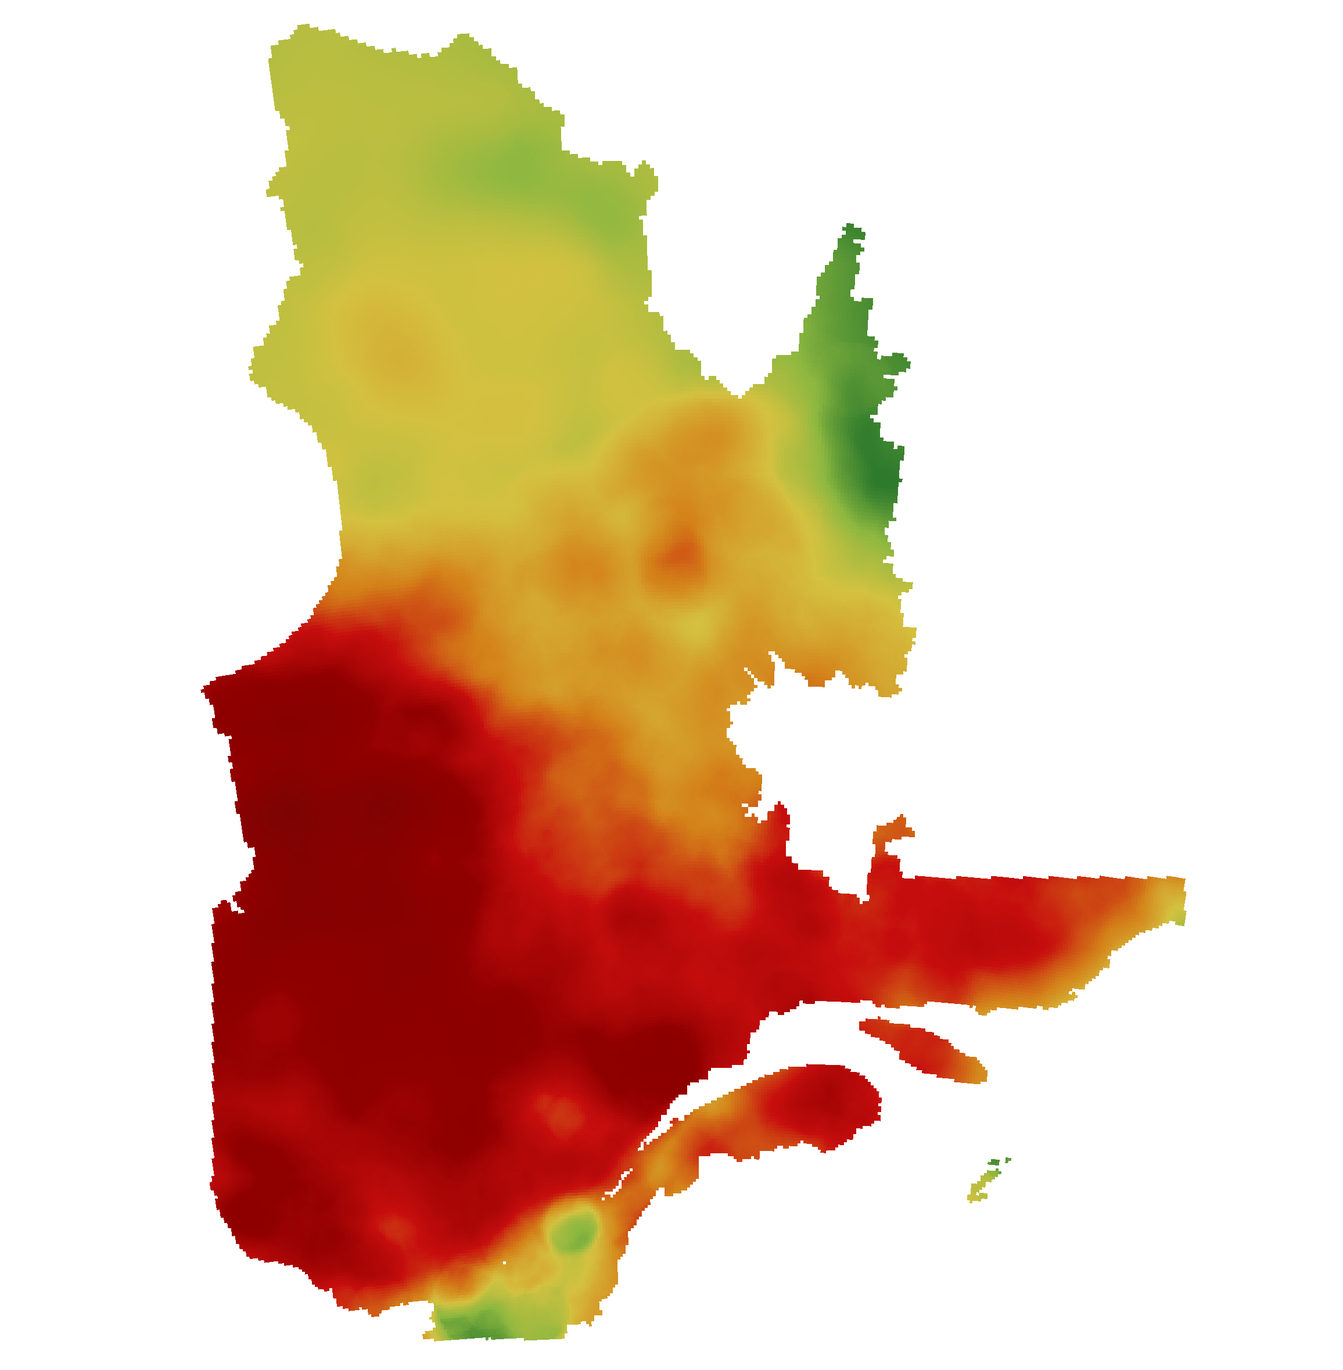
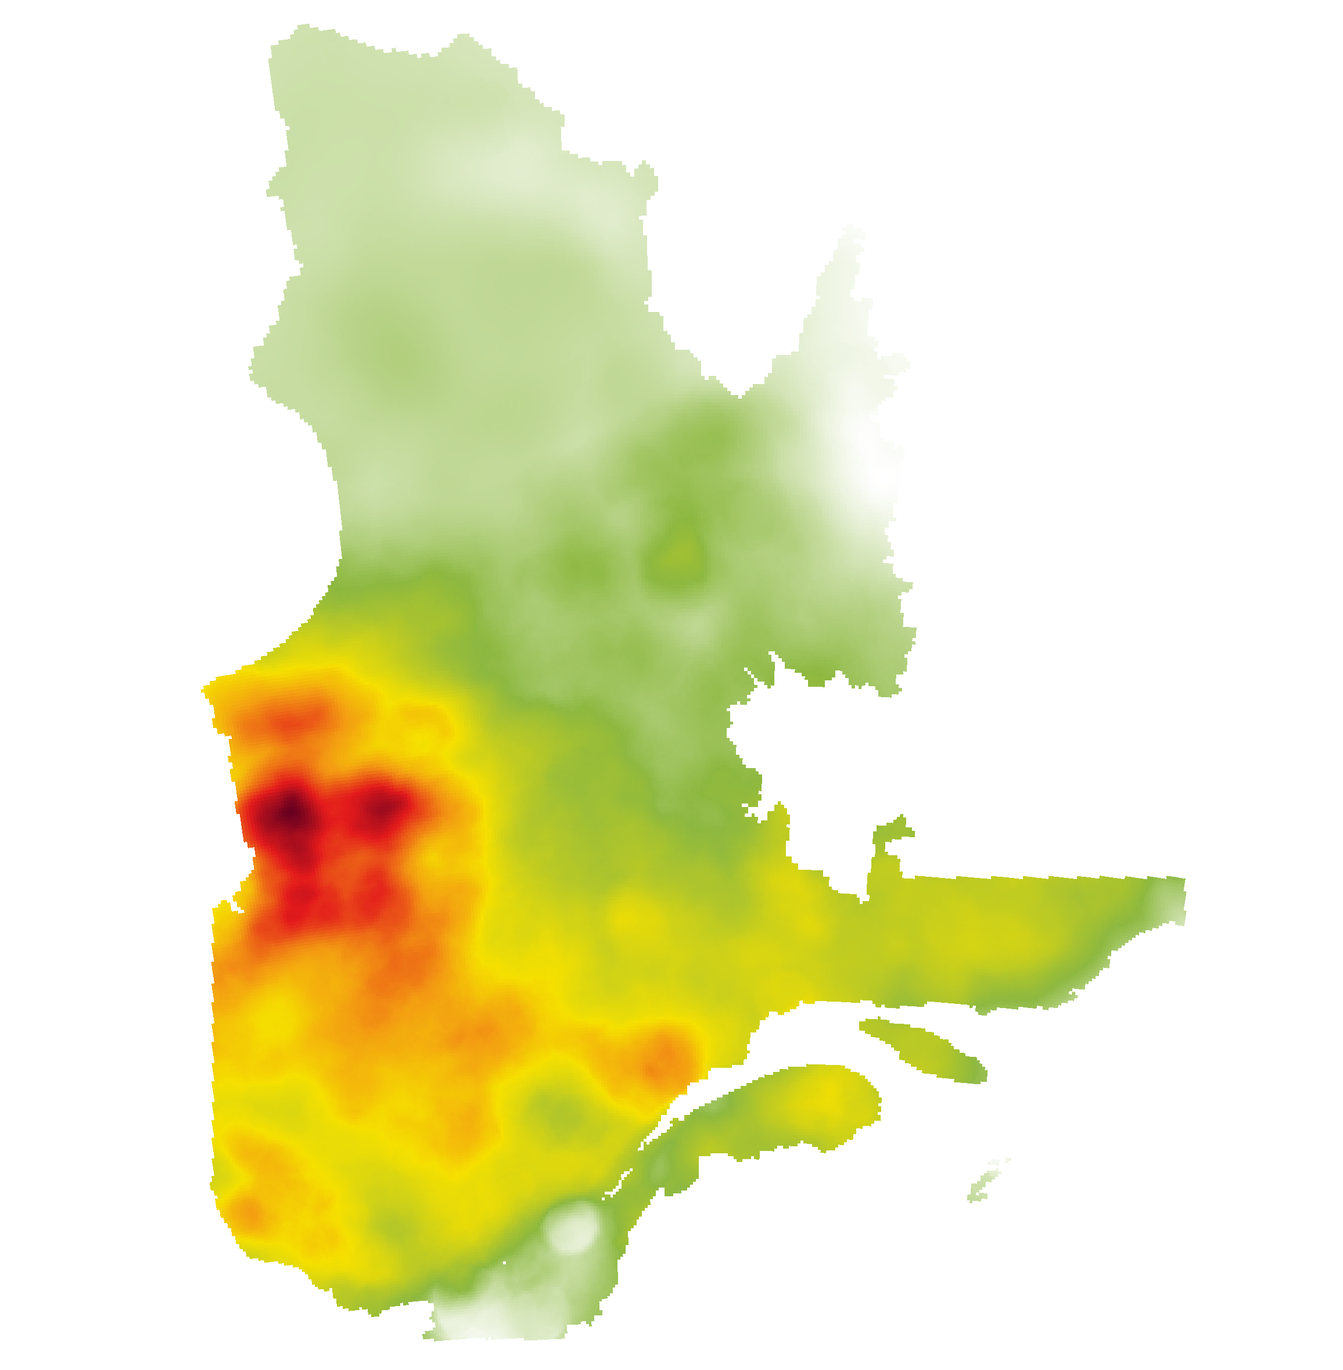
v2 : nouvelle palette de l'indice et légende des 6 variables
- Indice de prédisposition : 0 presque transparent → vert de la v2 (#8db840)
  → jaune à 0,5 → orange, rouge, rouge foncé à 1 (carte, barres de légende,
  pastilles) ; image de l'indice régénérée avec transparence (render_index_png)
- Variables de l'indice et pondérations (taux de brûlage P=3, occurrence foudre
  P=1, occurrence humaine P=1, couverture résineuse P=2, météo IFM P=2, densité
  de routes P=1) : infobulle de l'indice, panneau des couches, légende de la
  fiche régionale et page de légendes du PDF (FR/EN)

diff --git a/js/i18n.js b/js/i18n.js
@@ -229,8 +229,23 @@ export function LEGEND() {
       { h: fr ? 'Indice de prédisposition' : 'Predisposition index', p: [
         fr ? 'Indice standardisé de 0 à 1 (pixels de 5 km). Pour une MRC ou une zone, la moyenne et l’écart-type des pixels du territoire sont indiqués. La prédisposition reflète la probabilité à long terme qu’un milieu habité soit menacé ou atteint par un feu de forêt ; elle ne doit pas être confondue avec le danger d’incendie quotidien.'
           : 'Standardized index from 0 to 1 (5-km pixels). For an RCM or an area, the mean and standard deviation of the territory’s pixels are given. Predisposition reflects the long-term probability that a populated place is threatened or reached by a forest fire; it must not be confused with the daily fire danger.',
-      ] },
+      ], vars: true },
     ],
+    // Variables de l'indice composite (somme des indicateurs standardisés et pondérés ; P = poids)
+    idxVarsTitle: fr ? 'Variables de l’indice (P = pondération)' : 'Index variables (P = weight)',
+    idxVarsNote: fr ? 'Indice composite : somme des 6 indicateurs standardisés et pondérés.' : 'Composite index: sum of the 6 standardized and weighted indicators.',
+    idxVars: [
+      [fr ? 'Taux de brûlage' : 'Burn rate', fr ? '% de superficie brûlée par année depuis 1976 (ou 1890 si disponible)' : '% of area burned per year since 1976 (or 1890 where available)', 3],
+      [fr ? 'Taux d’occurrence des feux causés par la foudre' : 'Lightning-caused fire occurrence rate', fr ? 'départs / 10 000 ha depuis 1976' : 'fire starts / 10,000 ha since 1976', 1],
+      [fr ? 'Taux d’occurrence des feux d’origine humaine' : 'Human-caused fire occurrence rate', fr ? 'départs / 10 000 ha depuis 1976' : 'fire starts / 10,000 ha since 1976', 1],
+      [fr ? 'Couverture résineuse' : 'Conifer cover', fr ? '% des terres émergées en 2025' : '% of land area in 2025', 2],
+      [fr ? 'Météo propice aux feux' : 'Fire-conducive weather', fr ? '95e percentile de l’indice forêt-météo (IFM), 2021-2050' : '95th percentile of the Fire Weather Index (FWI), 2021-2050', 2],
+      [fr ? 'Densité de routes' : 'Road density', fr ? 'm / ha (plafonnée à 15 m / ha)' : 'm / ha (capped at 15 m / ha)', 1],
+    ],
+    idxConcept: fr ? 'La prédisposition des communautés vise à refléter la probabilité à long terme qu’un milieu habité soit menacé ou atteint par un feu de forêt, en fonction de son emplacement, de l’historique des feux, du climat régional et de la végétation (combustibles). Elle ne doit pas être confondue avec le danger d’incendie, qui varie au fil de la saison selon la météo (sopfeu.qc.ca/carte).'
+      : 'Community predisposition aims to reflect the long-term probability that a populated place is threatened or reached by a forest fire, based on its location, fire history, regional climate and vegetation (fuels). It must not be confused with fire danger, which varies during the season with the weather (sopfeu.qc.ca/carte).',
+    idxScale: fr ? 'L’indice est standardisé de 0 à 1 (pixels de 5 km) : plus il s’approche de 1, plus le territoire est prédisposé aux grands feux. Pour une MRC ou une zone, la moyenne et l’écart-type des pixels sont indiqués (bande grise sur la barre).'
+      : 'The index is standardized from 0 to 1 (5-km pixels): the closer it gets to 1, the more the territory is predisposed to large fires. For an RCM or an area, the mean and standard deviation of the pixels are given (grey band on the bar).',
     lhComb: { h: fr ? 'Combustibles MRNF 2025' : 'MRNF 2025 fuels', p: [
       fr ? 'Ce graphique représente les différents types de combustibles végétaux présents dans la zone tampon (1 à 50 km, 25 km par défaut) autour du lieu habité. Chaque type de combustible présente une structure et une composition différentes, qui influencent grandement le potentiel d’intensité et de propagation des feux de forêt. Ces données sont issues de la Méthode canadienne de prévision du comportement des incendies de forêt (MCPCI).'
         : 'This chart shows the different types of vegetation fuels found in the buffer zone (1 to 50 km, 25 km by default) around the populated place. Each fuel type has a different structure and composition, which strongly influence fire intensity and spread potential. These data follow the Canadian Forest Fire Behavior Prediction (FBP) System.',
@@ -306,8 +321,6 @@ const EN_STATIC = {
   'zone.help': 'Draw a rectangle on the map (click and drag), use the current map extent or import a zipped shapefile (.shp, .dbf, .prj).',
   'lbl.community': 'Community',
   'idx.label': 'Forest fire predisposition index ℹ',
-  'idx.tip': `Community predisposition aims to reflect the long-term probability that a populated place is threatened or reached by a forest fire, based on its geographic location, fire history and regional climate, as well as vegetation (fuels). This concept must therefore not be confused with fire danger, which varies during the season according to weather conditions (sopfeu.qc.ca/carte).<br><br>
-          The forest fire predisposition index was determined from 4 key indicators:<br>(1) historical area burned<br>(2) historical fire start frequency<br>(3) fire weather indices projected for 2021-2050<br>(4) the nature of current fuels.<br><br>The index is standardized from 0 to 1 (5-km pixels): the closer it gets to 1, the more the territory is predisposed to large fires. For an RCM or an area, the mean and standard deviation of the pixels are given (grey band on the bar).`,
   'lowHigh': 'Low → High',
   'box.mrc': 'INFO-RCM', 'box.lh': 'INFO-COMMUNITY',
   'hint.mrc': 'Click INFO-RCM to see the fire history of the territory: number of fires by cause and area burned each year.',

diff --git a/js/app.js b/js/app.js
@@ -36,10 +36,11 @@ export const S = {
 // ═══════════════════════════════════════════════════════════════════════════
 // Utilitaires
 // ═══════════════════════════════════════════════════════════════════════════
+/** Couleur (opaque) de l'indice : pastilles et chiffres ; sous 0,25 on garde le vert lisible. */
 export function indexColor(v) {
   const x = Math.max(0, Math.min(1, v / INDEX_MAX));
   for (let i = 1; i < INDEX_PALETTE.length; i++) {
-    if (x <= INDEX_PALETTE[i][0]) return INDEX_PALETTE[i][1];
+    if (x <= INDEX_PALETTE[i][0]) return INDEX_PALETTE[x - INDEX_PALETTE[i - 1][0] < INDEX_PALETTE[i][0] - x ? i - 1 : i][1];
   }
   return INDEX_PALETTE.at(-1)[1];
 }
@@ -130,7 +131,7 @@ function addLayers() {
   // Indice de prédisposition standardisé (raster 5 km, rendu EPSG:3857)
   map.addSource('indice', { type: 'image', url: `data/indice_3857.png?v=${DATA_VERSION}`, coordinates: core.indiceMeta.coords });
   map.addLayer({ id: 'indice', type: 'raster', source: 'indice',
-    paint: { 'raster-opacity': 0.6, 'raster-resampling': 'nearest', 'raster-fade-duration': 0 } }, firstSymbol);
+    paint: { 'raster-opacity': 0.8, 'raster-resampling': 'nearest', 'raster-fade-duration': 0 } }, firstSymbol);
 
   // Unités MRC (remplissage invisible : survol et clic)
   map.addSource('units', { type: 'geojson', data: core.units, promoteId: 'uid' });
@@ -783,11 +784,20 @@ export function combGroups() {
   return COMB_ORDER.filter(g => groups.has(g)).map(g => ({ g, label: cGrp(g), items: groups.get(g) }));
 }
 
+/** Liste des 6 variables de l'indice (HTML). */
+export function idxVarsHTML(L, withUnits = true) {
+  return `<ol class="vars-list">${L.idxVars.map(([n, d, p]) => `<li><b>${n}</b>${withUnits ? ` — ${d}` : ''} <span class="vars-p">P=${p}</span></li>`).join('')}</ol>`;
+}
+
 function buildLegends() {
   const L = LEGEND();
+  $('idx-tip').innerHTML = `${L.idxConcept}<br><br><b>${L.idxVarsTitle}</b>${idxVarsHTML(L)}${L.idxVarsNote}<br><br>${L.idxScale}`;
+  $('idx-vars').innerHTML = `<div class="idx-vars-title">${L.idxVarsTitle}</div>${idxVarsHTML(L, false)}`;
   const row = (hex, txt) => `<div class="leg-row"><div class="leg-swatch" style="background:${hex}"></div><span>${txt}</span></div>`;
   const block = (b, extra = '') => `<div class="leg-block"><div class="leg-sub">${b.h}</div>${b.p.map(p => `<p>${mdBold(p)}</p>`).join('')}${extra}</div>`;
-  $('leg-mrc-body').innerHTML = L.mrc.map(b => block(b, b.sw ? `<p>${b.sw.map(([c, l]) => `<span class="sw-inline" style="background:${c}"></span>${l}`).join(' &nbsp; ')}</p>` : '')).join('');
+  $('leg-mrc-body').innerHTML = L.mrc.map(b => block(b,
+    (b.sw ? `<p>${b.sw.map(([c, l]) => `<span class="sw-inline" style="background:${c}"></span>${l}`).join(' &nbsp; ')}</p>` : '') +
+    (b.vars ? `<p><b>${L.idxVarsTitle}</b></p>${idxVarsHTML(L)}<p>${L.idxVarsNote}</p>` : ''))).join('');
   $('leg-lh-body').innerHTML = `
     <div>
       <div class="leg-col-title">${L.lhComb.h}</div>

diff --git a/index.html b/index.html
@@ -195,8 +195,7 @@
       <!-- Indice de prédisposition -->
       <div class="box has-tip" id="expo-box" tabindex="0">
         <span class="panel-label" data-i18n="idx.label">Indice de prédisposition aux feux ℹ</span>
-        <div class="tooltip-info" data-i18n="idx.tip">La prédisposition des communautés vise à refléter la probabilité à long terme qu'un milieu habité soit menacé ou atteint par un feu de forêt, en fonction de son emplacement géographique, de l'historique des feux et du climat régional, ainsi que de la végétation (combustibles). Ce concept ne doit donc pas être confondu avec le danger d'incendie, qui varie au fil de la saison selon les conditions météorologiques (sopfeu.qc.ca/carte).<br><br>
-          L'indice de prédisposition des MRC aux feux de forêt a été déterminé à partir de 4 indicateurs clés :<br>(1) les superficies historiques brûlées<br>(2) la fréquence des départs de feux historiques<br>(3) les indices forêt-météo projetés pour la période 2021-2050<br>(4) la nature des combustibles actuels.<br><br>L'indice est standardisé de 0 à 1 (pixels de 5 km) : plus il s'approche de 1, plus le territoire est prédisposé aux grands feux. Pour une MRC ou une zone, la moyenne et l'écart-type des pixels sont indiqués (bande grise sur la barre).</div>
+        <div class="tooltip-info" id="idx-tip"></div>
         <div class="legend-bar"><div class="band" id="expo-band"></div><div class="marker" id="expo-marker"></div></div>
         <div class="legend-labels"><span>0</span><span data-i18n="lowHigh">Faible → Élevé</span><span>1</span></div>
         <div id="expo-value"></div>
@@ -267,10 +266,11 @@
       <div class="lp-body">
         <div class="lyr" style="border-top:none;padding-top:0">
           <label class="lyr-head"><input type="checkbox" id="ly-indice" checked> <span data-i18n="ly.indice">Indice de prédisposition (5 km)</span></label>
-          <div class="lyr-opts"><label><span data-i18n="ly.opacity">Opacité</span> <input type="range" id="op-indice" min="0" max="100" value="60"></label>
+          <div class="lyr-opts"><label><span data-i18n="ly.opacity">Opacité</span> <input type="range" id="op-indice" min="0" max="100" value="80"></label>
             <div class="legend-bar" style="margin:2px 0 0"></div>
             <div class="ramp-labels"><span>0</span><span data-i18n="lowHigh">Faible → Élevé</span><span>1</span></div>
-            <div class="lyr-note" data-i18n="ly.indiceNote">Survolez la carte pour lire la valeur d'un pixel.</div></div>
+            <div class="lyr-note" data-i18n="ly.indiceNote">Survolez la carte pour lire la valeur d'un pixel.</div>
+            <div class="idx-vars" id="idx-vars"></div></div>
         </div>
         <div class="lyr">
           <label class="lyr-head"><input type="checkbox" id="ly-feux"> <span data-i18n="ly.feux">Contours de feux</span></label>

diff --git a/js/report.js b/js/report.js
@@ -466,21 +466,21 @@ function legendPages(doc, newPage) {
   };
   const sub = (h) => {
     need(26);
-    doc.setFont('helvetica', 'bold'); doc.setFontSize(9.5); doc.setTextColor(...DARK);
-    for (const l of wrap(doc, h, colW)) { doc.text(l, x(), y); y += 11.5; }
+    doc.setFont('helvetica', 'bold'); doc.setFontSize(9); doc.setTextColor(...DARK);
+    for (const l of wrap(doc, h, colW)) { doc.text(l, x(), y); y += 10.5; }
     y += 1;
   };
   const para = (txt) => {
-    doc.setFont('helvetica', 'normal'); doc.setFontSize(8.5); doc.setTextColor(60);
-    for (const l of wrap(doc, txt.replace(/\*\*/g, ''), colW)) { need(11); doc.text(l, x(), y); y += 10.5; }
-    y += 4;
+    doc.setFont('helvetica', 'normal'); doc.setFontSize(8); doc.setTextColor(60);
+    for (const l of wrap(doc, txt.replace(/\*\*/g, ''), colW)) { need(10); doc.text(l, x(), y); y += 9.6; }
+    y += 3;
   };
   const swatch = (hex, txt, indent = 0) => {
-    need(11);
+    need(10);
     doc.setFillColor(hex); doc.setDrawColor(150); doc.setLineWidth(0.3);
-    doc.rect(x() + indent, y - 7, 14, 8, 'FD');
-    doc.setFont('helvetica', 'normal'); doc.setFontSize(8.5); doc.setTextColor(...DARK);
-    doc.text(pdfTxt(txt), x() + indent + 20, y); y += 11;
+    doc.rect(x() + indent, y - 6.5, 13, 7.5, 'FD');
+    doc.setFont('helvetica', 'normal'); doc.setFontSize(8); doc.setTextColor(...DARK);
+    doc.text(pdfTxt(txt), x() + indent + 19, y); y += 9.8;
   };
 
   head();
@@ -488,13 +488,19 @@ function legendPages(doc, newPage) {
   for (const b of L.mrc) {
     sub(b.h); b.p.forEach(para);
     if (b.sw) { b.sw.forEach(([c, l]) => swatch(c, l)); y += 4; }
+    if (b.vars) {
+      doc.setFont('helvetica', 'bold'); doc.setFontSize(8.5); doc.setTextColor(...DARK);
+      need(12); doc.text(pdfTxt(L.idxVarsTitle), x(), y); y += 11;
+      L.idxVars.forEach(([n, d, p], i) => para(`${i + 1}. ${n} (P=${p}) : ${d}`));
+      para(L.idxVarsNote);
+    }
   }
   section(t('pdf.legLh'));
   sub(L.lhComb.h); L.lhComb.p.forEach(para);
   for (const gr of combGroups()) {
     need(24);
     doc.setFont('helvetica', 'bold'); doc.setFontSize(8.5); doc.setTextColor(44, 62, 80);
-    doc.text(pdfTxt(gr.label.toUpperCase()), x(), y); y += 11;
+    doc.text(pdfTxt(gr.label.toUpperCase()), x(), y); y += 10;
     gr.items.forEach(c => swatch(c.hex, cAbb(c) === cLbl(c) ? cLbl(c) : `${cAbb(c)} - ${cLbl(c)}`, 6));
   }
   y += 4;

diff --git a/css/app.css b/css/app.css
@@ -161,8 +161,9 @@ body {
 .expo-rank { font-size: 12.5px; color: var(--text-label); }
 .expo-note { font-size: 11px; color: var(--text-muted); margin-top: 2px; }
 .legend-bar {
-  height: 12px; border-radius: 4px; margin: 6px 0 3px; position: relative;
-  background: linear-gradient(to right, #2d7a2d 0%, #8db840 7%, #d4c240 15%, #d4821a 25%, #c70e0e 38%, #900000 55%, #7d0404 100%);
+  height: 12px; border-radius: 4px; margin: 6px 0 3px; position: relative; border: 1px solid #d5dbe1;
+  background: linear-gradient(to right, rgba(141,184,64,0) 0%, rgba(141,184,64,0.35) 10%, #8db840 25%, #f5e000 50%,
+    #f39c12 62%, #e31a1c 80%, #67001f 100%), #fff;
 }
 .legend-bar .marker {
   position: absolute; top: -4px; width: 3px; height: 20px; background: #111; border-radius: 2px;
@@ -364,6 +365,15 @@ body {
 #leg-comb b { font-weight: 700; margin-right: 1px; white-space: nowrap; }
 #leg-comb .leg-mini-grp { display: block; font-family: 'Oswald', sans-serif; font-size: 9.5px; letter-spacing: 0.8px;
   text-transform: uppercase; color: var(--text-muted); margin-top: 4px; }
+
+/* Variables de l'indice */
+.vars-list { margin: 4px 0 6px 18px; padding: 0; }
+.vars-list li { margin-bottom: 2px; }
+.vars-p { font-size: 0.9em; opacity: 0.8; white-space: nowrap; }
+.idx-vars { font-size: 10.5px; color: var(--text-label); margin-top: 4px; }
+.idx-vars-title { font-family: 'Oswald', sans-serif; font-size: 9.5px; letter-spacing: 0.8px; text-transform: uppercase; color: var(--text-muted); }
+.idx-vars .vars-list { margin: 2px 0 0 16px; }
+#idx-tip .vars-list { margin: 4px 0 6px 16px; }
 
 /* Bandeau d'erreur */
 #err-banner {

diff --git a/js/config.js b/js/config.js
@@ -12,7 +12,7 @@ export const TILES = {
   feux: `${TILES_BASE}/feux.fgb`,
 };
 
-export const DATA_VERSION = '20261020';
+export const DATA_VERSION = '20261020b';
 export const BASEMAP = 'https://basemaps.cartocdn.com/gl/positron-gl-style/style.json';
 export const QC_BOUNDS = [[-79.8, 44.9], [-57.0, 62.6]];
 
@@ -24,11 +24,11 @@ export const BUFFER_DEFAULT = 25;
 export const BUFFER_MAX = 50;
 export const FIRE_MIN_ZOOM = 6.5;     // zoom à partir duquel les contours de feux sont chargés
 
-// Palette de l'indice de prédisposition (vert → rouge), identique à la v1.
-// Indice standardisé : 0 à 1 (la v1 utilisait l'indice EXPO de 0 à 6).
+// Palette de l'indice de prédisposition standardisé (0 à 1) : [valeur, couleur, opacité]
+// 0 ≈ transparent → vert de la v2 → jaune à 0,5 → rouge foncé à 1 (même palette que scripts/config.py).
 export const INDEX_PALETTE = [
-  [0.00, '#2d7a2d'], [0.07, '#8db840'], [0.15, '#d4c240'], [0.25, '#d4821a'],
-  [0.38, '#c70e0e'], [0.55, '#900000'], [1.00, '#7d0404'],
+  [0.00, '#8db840', 0.0], [0.10, '#8db840', 0.35], [0.25, '#8db840', 1], [0.50, '#f5e000', 1],
+  [0.62, '#f39c12', 1], [0.80, '#e31a1c', 1], [1.00, '#67001f', 1],
 ];
 export const INDEX_MAX = 1;
 

diff --git a/scripts/build_units.py b/scripts/build_units.py
@@ -64,6 +64,33 @@ def load_fires(regime_union):
     return feux
 
 
+def render_index_png(idx=None, itr=None, icrs=None):
+    """Rendu de l'indice pour la carte : reprojection EPSG:3857 (plus proche voisin, ~1,5 km) → PNG RGBA
+    selon INDEX_PALETTE (transparence progressive vers 0) + indice_meta.json (coins géographiques)."""
+    if idx is None:
+        with rasterio.open(INDICE_TIF) as s:
+            idx, itr, icrs = s.read(1).astype(np.float32), s.transform, s.crs
+        idx[~np.isfinite(idx)] = np.nan
+    ih, iw = idx.shape
+    t, w, h = calculate_default_transform(icrs, "EPSG:3857", iw, ih, *rasterio.transform.array_bounds(ih, iw, itr), resolution=1500)
+    dst = np.full((h, w), np.nan, dtype=np.float32)
+    reproject(idx, dst, src_transform=itr, src_crs=icrs, dst_transform=t, dst_crs="EPSG:3857",
+              resampling=Resampling.nearest, src_nodata=np.nan, dst_nodata=np.nan)
+    xs = [p[0] for p in INDEX_PALETTE]
+    rgba = np.array([[int(c[i:i + 2], 16) for i in (1, 3, 5)] + [a * 255] for _, c, a in INDEX_PALETTE], dtype=float)
+    v = np.clip(np.nan_to_num(dst, nan=0), 0, 1)
+    img = np.zeros((h, w, 4), dtype=np.uint8)
+    for k in range(4):
+        img[..., k] = np.interp(v, xs, rgba[:, k]).round().astype(np.uint8)
+    img[..., 3] = np.where(np.isfinite(dst), img[..., 3], 0)
+    Image.fromarray(img, "RGBA").save(OUT / "indice_3857.png", optimize=True)
+    tr = Transformer.from_crs(3857, 4326, always_xy=True)
+    L, T = t.c, t.f; R, B = L + t.a * w, T + t.e * h
+    (lw, tn), (re, bs) = tr.transform(L, T), tr.transform(R, B)
+    (OUT / "indice_meta.json").write_text(json.dumps({"coords": [[lw, tn], [re, tn], [re, bs], [lw, bs]]}), encoding="utf-8")
+    log(f"  → indice_3857.png ({(OUT/'indice_3857.png').stat().st_size/1024:.0f} Ko, {w}×{h})")
+
+
 def export_province():
     """Contour provincial simplifié (carte de localisation du rapport PDF) → data/province.geojson."""
     prov = gpd.read_file(PROV_SHORE).to_crs(CRS_LCC)
@@ -131,26 +158,7 @@ if __name__ == "__main__":
     (OUT / "indice.bin.gz").write_bytes(gzip.compress(raw, 9))
     log(f"  → indice.bin.gz, plage {np.nanmin(idx):.3f}–{np.nanmax(idx):.3f}")
 
-    # Rendu carte : reprojection EPSG:3857 (plus proche voisin, ~1 km) → PNG RGBA
-    t, w, h = calculate_default_transform(icrs, "EPSG:3857", iw, ih, *rasterio.transform.array_bounds(ih, iw, itr), resolution=1500)
-    dst = np.full((h, w), np.nan, dtype=np.float32)
-    reproject(idx, dst, src_transform=itr, src_crs=icrs, dst_transform=t, dst_crs="EPSG:3857",
-              resampling=Resampling.nearest, src_nodata=np.nan, dst_nodata=np.nan)
-    pal = [(0.00, "#2d7a2d"), (0.07, "#8db840"), (0.15, "#d4c240"), (0.25, "#d4821a"),
-           (0.38, "#c70e0e"), (0.55, "#900000"), (1.00, "#7d0404")]
-    xs = [p[0] for p in pal]
-    rgb = np.array([[int(c[i:i + 2], 16) for i in (1, 3, 5)] for _, c in pal], dtype=float)
-    v = np.clip(np.nan_to_num(dst, nan=0), 0, 1)
-    img = np.zeros((h, w, 4), dtype=np.uint8)
-    for k in range(3):
-        img[..., k] = np.interp(v, xs, rgb[:, k]).astype(np.uint8)
-    img[..., 3] = np.where(np.isfinite(dst), 255, 0)
-    Image.fromarray(img, "RGBA").save(OUT / "indice_3857.png", optimize=True)
-    tr = Transformer.from_crs(3857, 4326, always_xy=True)
-    L, T = t.c, t.f; R, B = L + t.a * w, T + t.e * h
-    (lw, tn), (re, bs) = tr.transform(L, T), tr.transform(R, B)
-    (OUT / "indice_meta.json").write_text(json.dumps({"coords": [[lw, tn], [re, tn], [re, bs], [lw, bs]]}), encoding="utf-8")
-    log(f"  → indice_3857.png ({(OUT/'indice_3857.png').stat().st_size/1024:.0f} Ko, {w}×{h})")
+    render_index_png(idx, itr, icrs)
 
     u_out = units[["uid", "MRC_IDm", "MOD_NM_MRC", "MRS_NM_MRC", "IM", "ISD", "IN", "LR", "AREA_HA", "geometry"]].copy()
     u_out.columns = ["uid", "id", "nom", "mrc", "im", "isd", "in", "lr", "ha", "geometry"]

diff --git a/scripts/config.py b/scripts/config.py
@@ -46,5 +46,8 @@ COMB_NODATA = 255
 POT_NODATA = 15
 # Codes combustibles « non combustibles » (exclus du dénominateur, cf. STEP2_Preparation_table_ficheMRC.R)
 NFUEL_CODES = (101, 102, 103, 104)
+# Palette de l'indice de prédisposition (valeur, couleur, opacité) : 0 ≈ transparent, 0,5 = jaune, 1 = rouge foncé
+INDEX_PALETTE = [(0.00, "#8db840", 0.0), (0.10, "#8db840", 0.35), (0.25, "#8db840", 1.0), (0.50, "#f5e000", 1.0),
+                 (0.62, "#f39c12", 1.0), (0.80, "#e31a1c", 1.0), (1.00, "#67001f", 1.0)]
 COMB_WATER = 103          # classe « Eau » (remplissage des zones CO_TER = EAU)
 POT_NOFUEL = 0            # classe « Absence combustible » du potentiel
